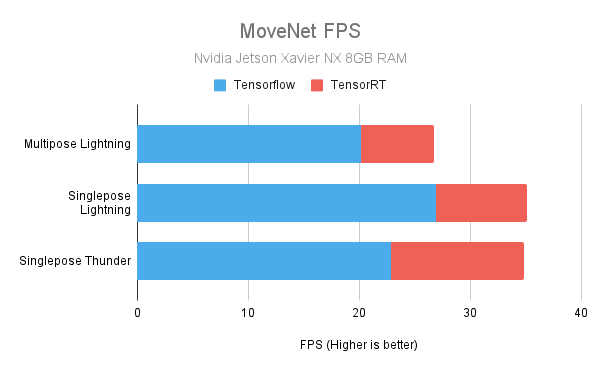
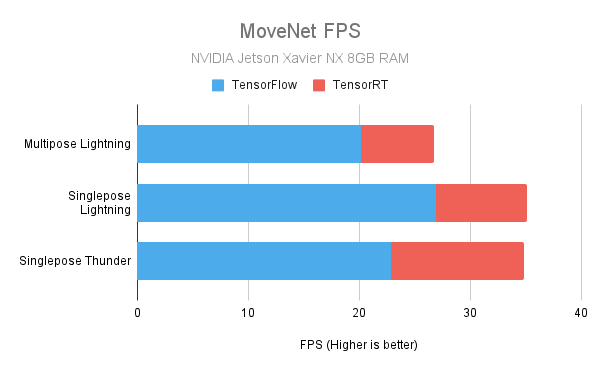
docs: rename 'edgeai' to 'edge_ai' - update charts with stylized names - update Edge AI page with stylized names, correct typo error, add 'Test Conditions'

Changed region(s): [[0.3, 0.1186, 0.69, 0.1779], [0.36, 0.2075, 0.66, 0.2372]]

diff --git a/docs/source/edge_ai/index.rst b/docs/source/edge_ai/index.rst
@@ -8,16 +8,16 @@
 Edge AI
 *******
 
-PeekingDuck supports running optimized TensorRT [1]_ models on devices with Nvidia GPUs.
+PeekingDuck supports running optimized TensorRT [1]_ models on devices with NVIDIA GPUs.
 Using the TensorRT model on these devices provides a speed boost over the regular
-Tensorflow/PyTorch version.
-A potential use case is running PeekingDuck on an Nvidia Jetson device for Edge AI
+TensorFlow/PyTorch version.
+A potential use case is running PeekingDuck on an NVIDIA Jetson device for Edge AI
 inference.
 
 Currently, PeekingDuck includes TensorRT versions of the following models:
 
-#. Movenet model for pose estimation,
-#. YoloX model for object detection.
+#. MoveNet model for pose estimation,
+#. YOLOX model for object detection.
 
 
 Using TensorRT Models
@@ -26,7 +26,7 @@ Using TensorRT Models
 To use the TensorRT version of a model, change the ``model_format`` of the model
 configuration to ``tensorrt``.
 
-The following ``pipeline_config.yml`` shows how to use the Movenet TensorRT model 
+The following ``pipeline_config.yml`` shows how to use the MoveNet TensorRT model 
 for pose estimation:
 
 .. code-block:: yaml
@@ -45,7 +45,7 @@ for pose estimation:
     - output.screen
 
 
-The following ``pipeline_config.yml`` shows how to use the YoloX TensorRT model 
+The following ``pipeline_config.yml`` shows how to use the YOLOX TensorRT model 
 for object detection:
 
 .. code-block:: yaml
@@ -66,14 +66,14 @@ for object detection:
     - output.screen
 
 
-Performace Speedup
-==================
+Performance Speedup
+===================
 
 The following charts show the speed up obtainable with the TensorRT models.
 The numbers were obtained from our in-house testing with the actual devices.
 
 
-Nvidia Jetson Xavier NX with 8GB RAM
+NVIDIA Jetson Xavier NX with 8GB RAM
 ------------------------------------
 
 .. figure:: /assets/charts/tensorrt_nx_movenet_fps.png
@@ -86,7 +86,7 @@ Nvidia Jetson Xavier NX with 8GB RAM
     ``RAM``: 8 GB
 
 
-Nvidia Jetson Xavier AGX with 16GB RAM
+NVIDIA Jetson Xavier AGX with 16GB RAM
 --------------------------------------
 
 .. figure:: /assets/charts/tensorrt_agx_movenet_fps.png
@@ -99,9 +99,24 @@ Nvidia Jetson Xavier AGX with 16GB RAM
     ``RAM``: 16 GB
 
 
+Test Conditions
+^^^^^^^^^^^^^^^
+
+The following test conditions were followed:
+ | - :mod:`input.visual`, the model of interest, and :mod:`dabble.fps` nodes were used to perform
+     inference on videos
+ | - 2 videos were used to benchmark each model, one with only 1 human (``single``), and the other
+     with multiple humans (``multiple``)
+ | - Both videos are about 1 minute each, recorded at ~30 FPS, which translates to about 1,800
+     frames to process per video
+ | - 1280×720 (HD ready) resolution was used, as a bridge between 640×480 (VGA) of poorer quality
+     webcams, and 1920×1080 (Full HD) of CCTVs
+ | - FPS numbers are averaged over 5 separate runs
+
+
 References
 ==========
 
-.. [1] `Nvidia TensorRT Reference <https://developer.nvidia.com/tensorrt>`_
-.. [2] `Nvidia Jetson Xavier NX Tech Specs <https://developer.nvidia.com/embedded/jetson-xavier-nx-devkit>`_
-.. [3] `Nvidia Jetson Xavier AGX Tech Specs <https://developer.nvidia.com/embedded/jetson-agx-xavier-developer-kit>`_
+.. [1] `NVIDIA TensorRT Reference <https://developer.nvidia.com/tensorrt>`_
+.. [2] `NVIDIA Jetson Xavier NX Tech Specs <https://developer.nvidia.com/embedded/jetson-xavier-nx-devkit>`_
+.. [3] `NVIDIA Jetson Xavier AGX Tech Specs <https://developer.nvidia.com/embedded/jetson-agx-xavier-developer-kit>`_

diff --git a/docs/source/master.rst b/docs/source/master.rst
@@ -15,7 +15,7 @@ Welcome to PeekingDuck's Documentation!
    getting_started/index
    tutorials/index
    resources/index
-   edgeai/index
+   edge_ai/index
    use_cases/index
    faq
    glossary
